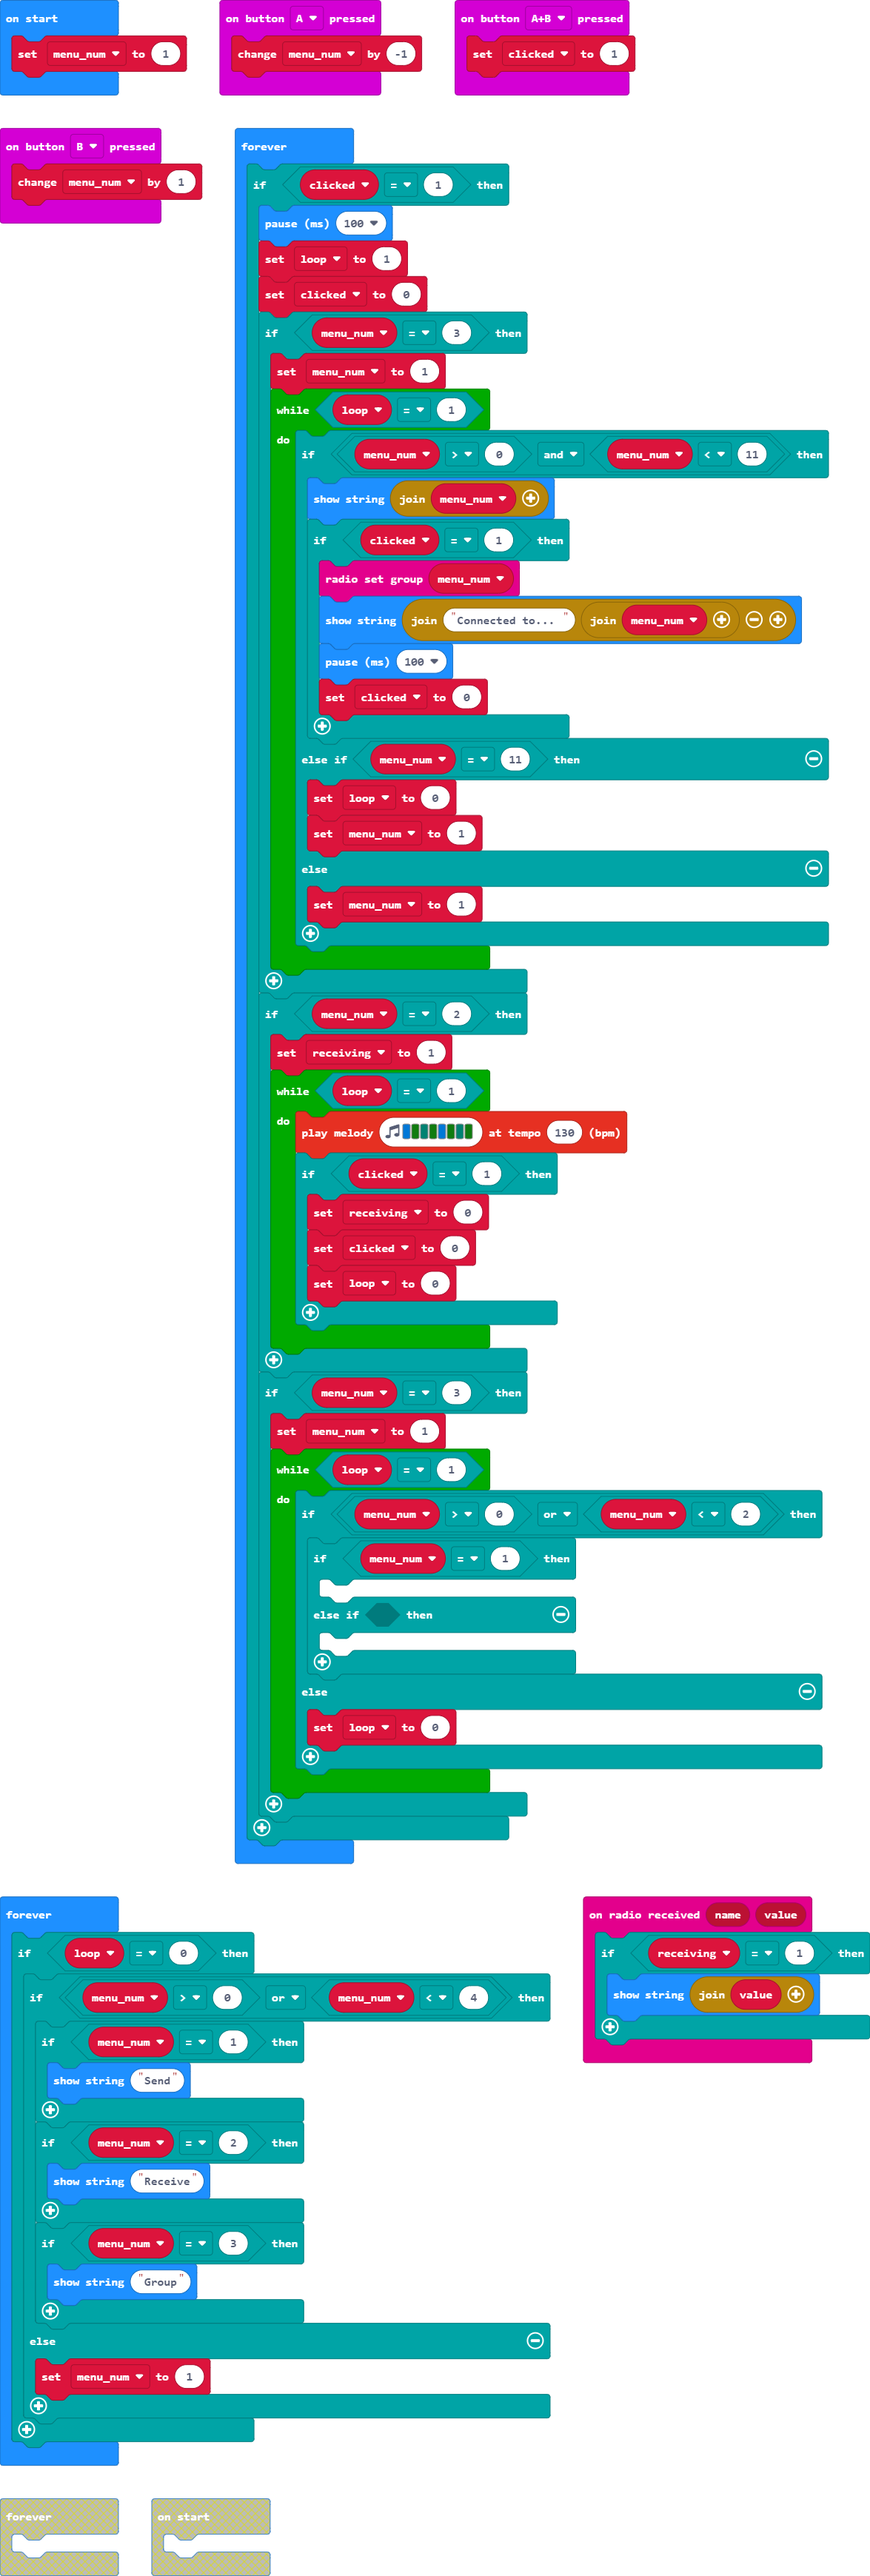
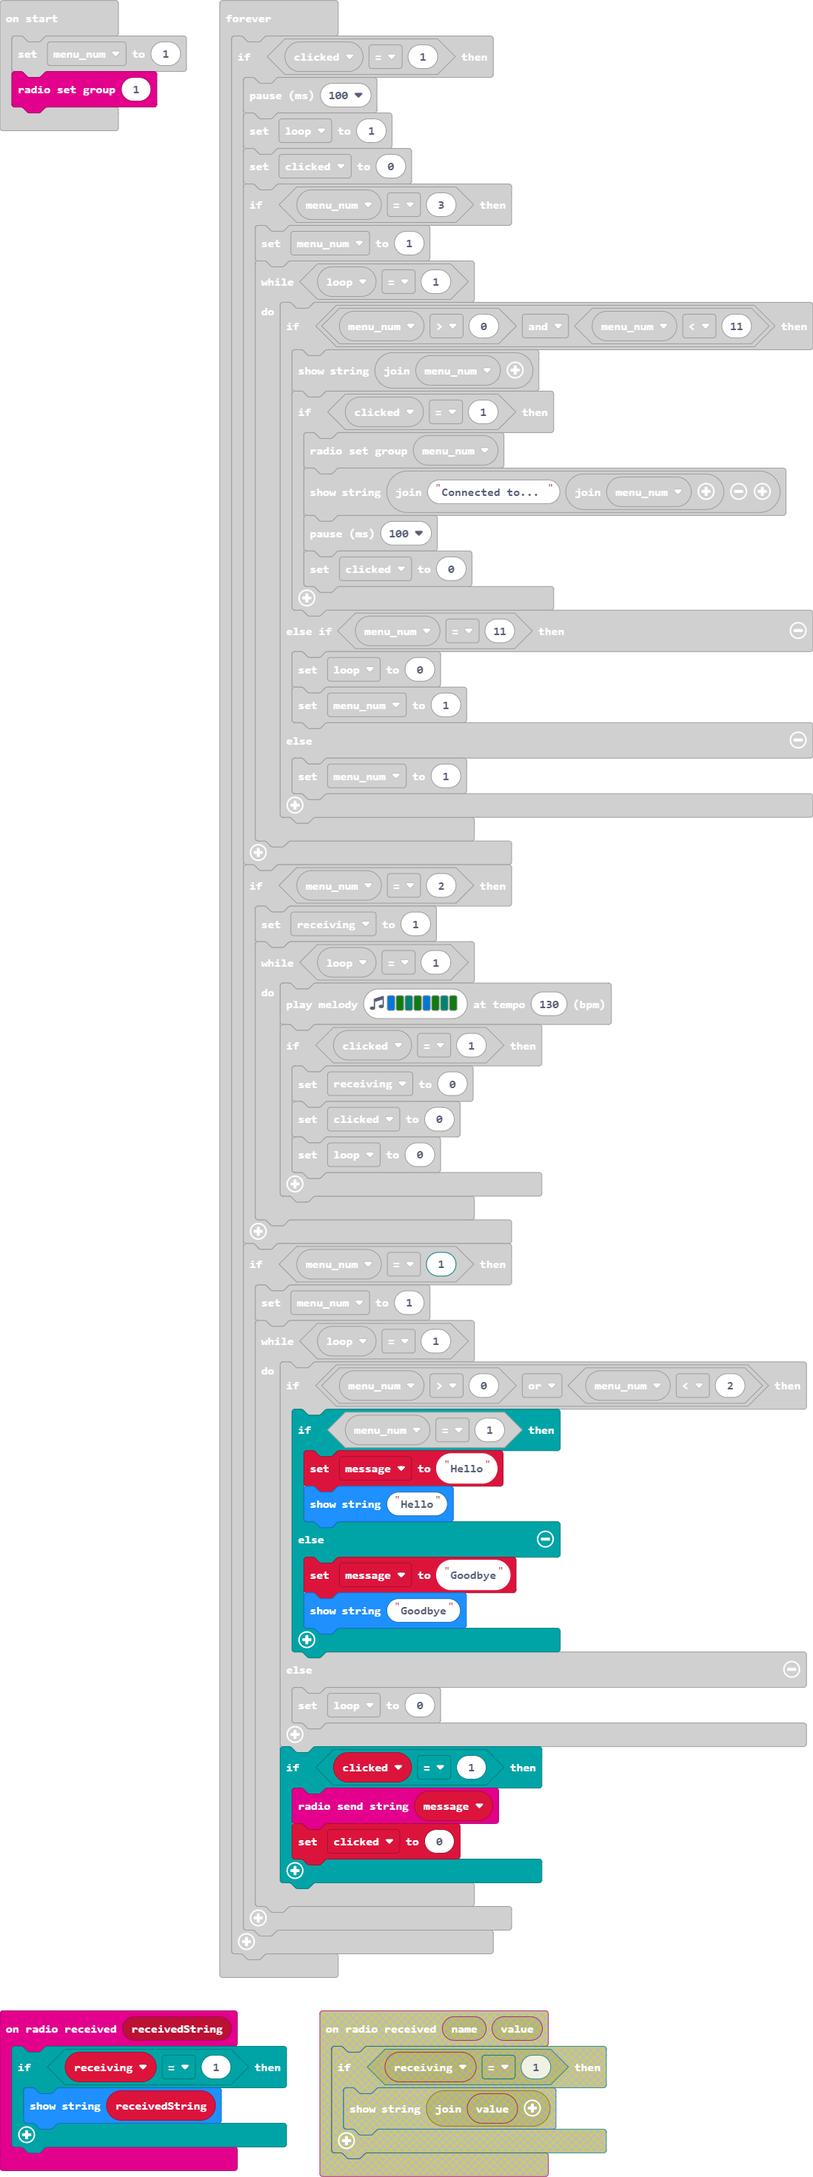
NEW "send" is working now yet only has 2 phrases "hello" and "goodbye"

diff --git a/main.ts b/main.ts
@@ -4,18 +4,20 @@ input.onButtonPressed(Button.A, function () {
 input.onButtonPressed(Button.AB, function () {
     clicked = 1
 })
+radio.onReceivedString(function (receivedString) {
+    if (receiving == 1) {
+        basic.showString(receivedString)
+    }
+})
 input.onButtonPressed(Button.B, function () {
     menu_num += 1
 })
-radio.onReceivedValue(function (name, value) {
-    if (receiving == 1) {
-        basic.showString("" + value)
-    }
-})
+let message = ""
 let loop = 0
 let receiving = 0
 let clicked = 0
 let menu_num = 1
+radio.setGroup(1)
 basic.forever(function () {
     if (clicked == 1) {
         basic.pause(100)
@@ -51,17 +53,23 @@ basic.forever(function () {
                 }
             }
         }
-        if (menu_num == 3) {
+        if (menu_num == 1) {
             menu_num = 1
             while (loop == 1) {
                 if (menu_num > 0 || menu_num < 2) {
                     if (menu_num == 1) {
-                    	
-                    } else if (false) {
-                    	
+                        message = "Hello"
+                        basic.showString("Hello")
+                    } else {
+                        message = "Goodbye"
+                        basic.showString("Goodbye")
                     }
                 } else {
                     loop = 0
+                }
+                if (clicked == 1) {
+                    radio.sendString(message)
+                    clicked = 0
                 }
             }
         }
